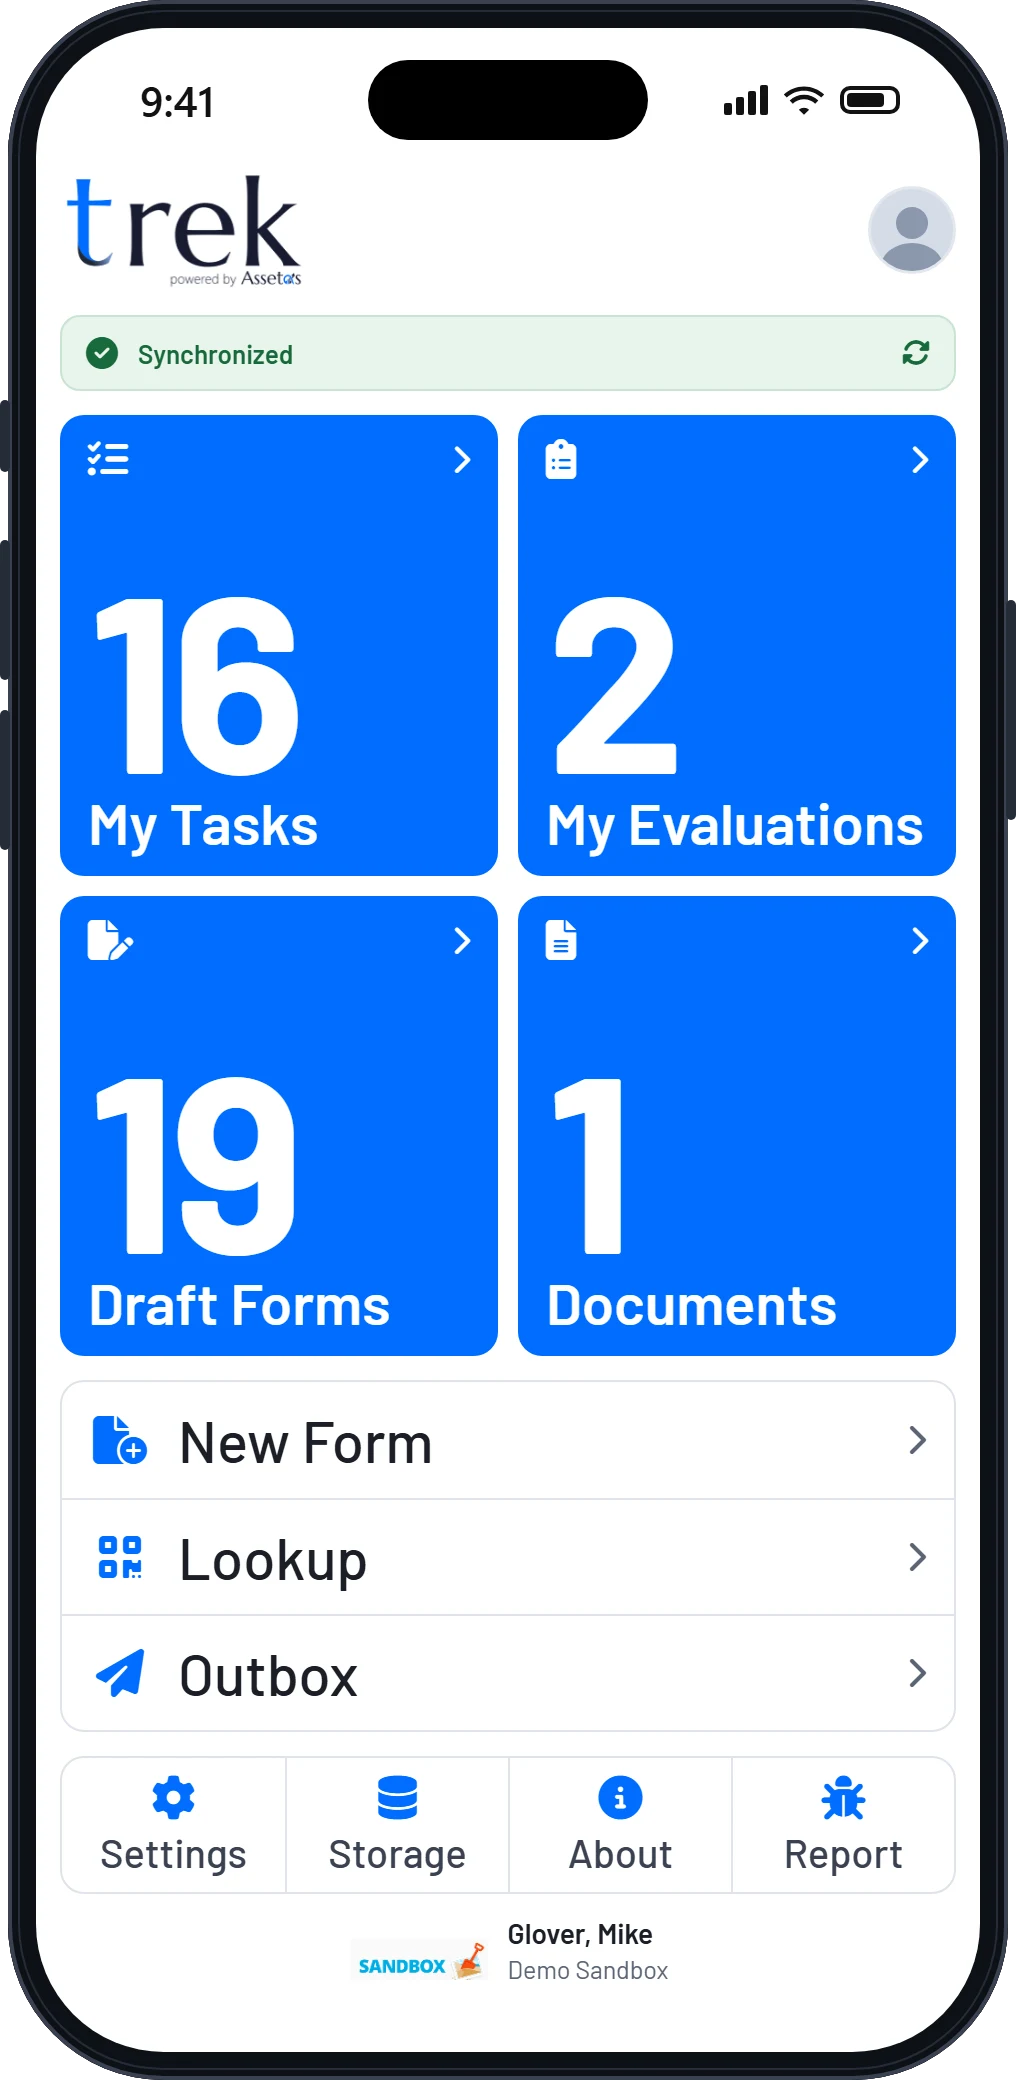
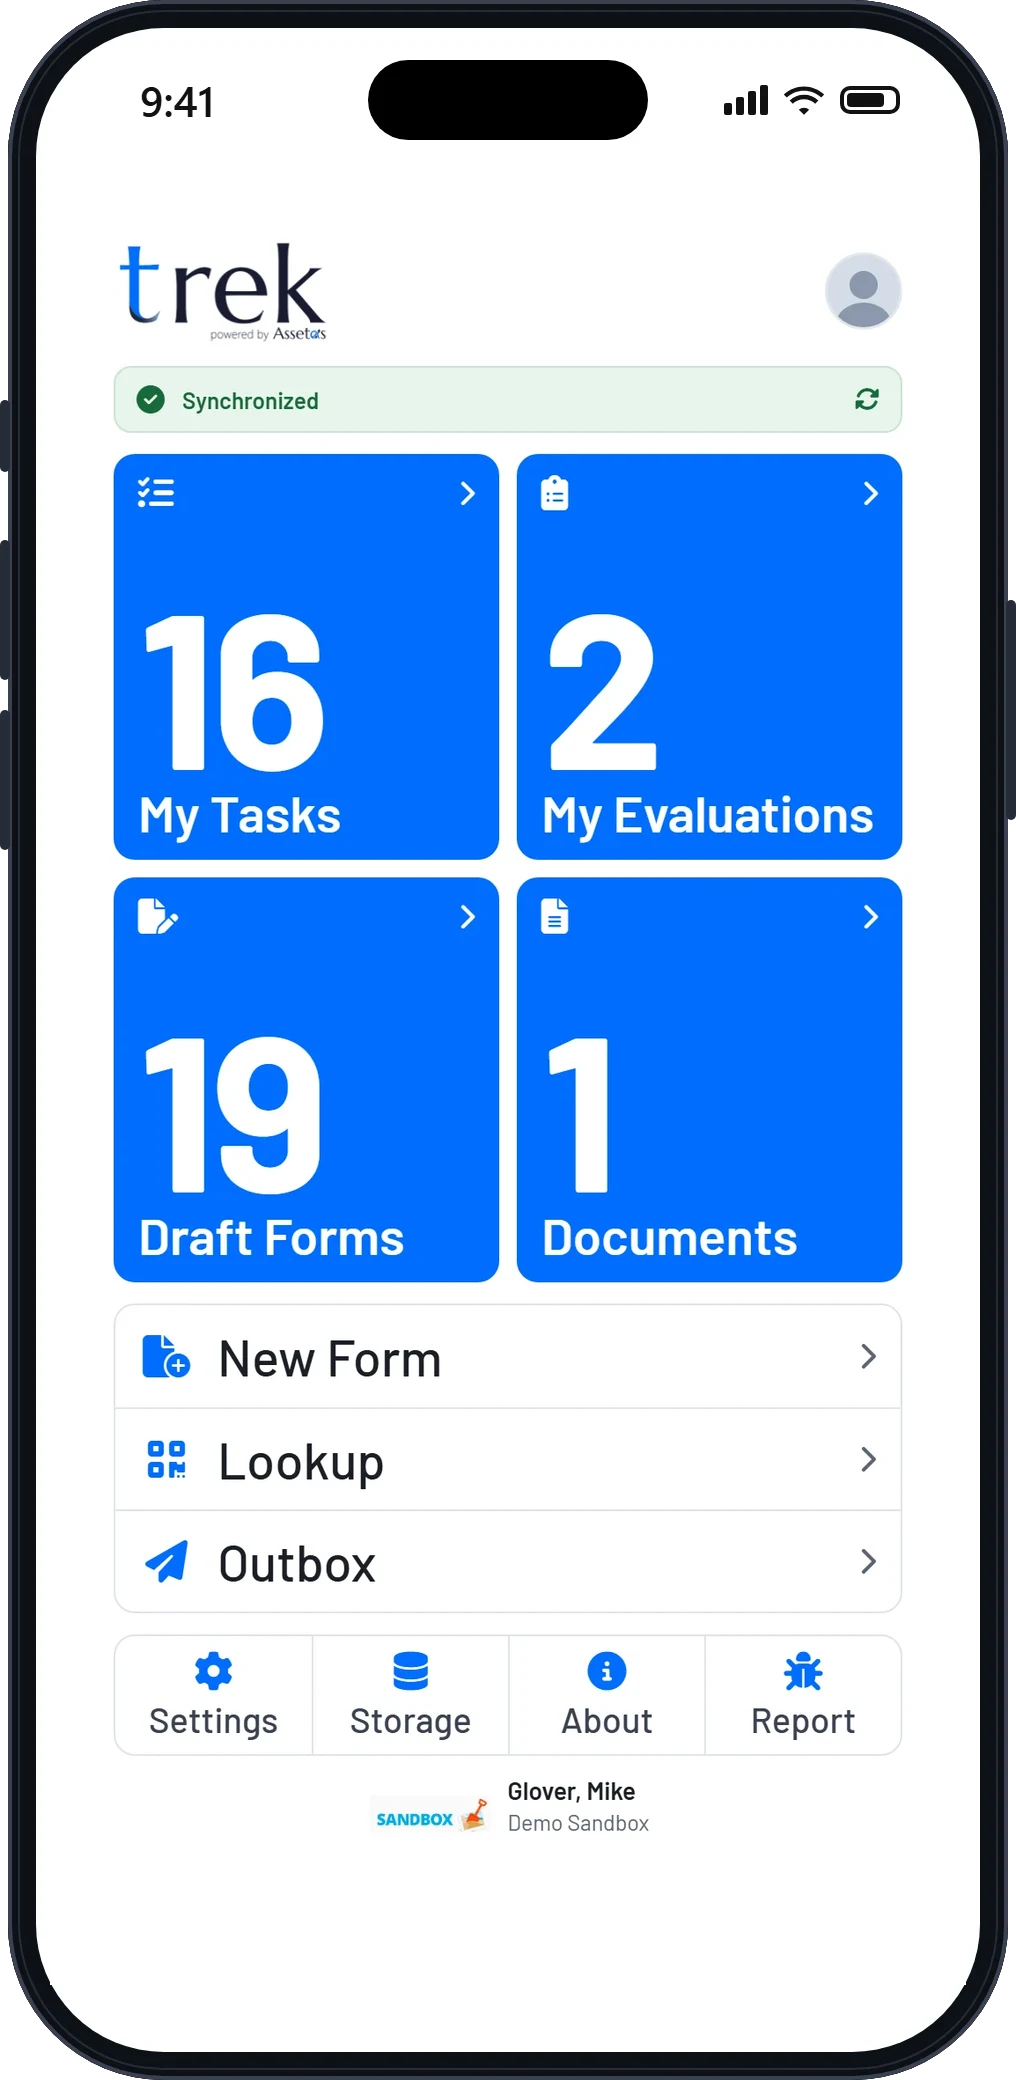
Rework the LDAR page for buyers and quiet the closing band
- Hero gets a lead plus "Book a demo" and "See the LDAR rule map".
- Sections follow the buyer's story: compliance exposure, how it works,
  the subpart W clock, proof, FAQ. The stats headline now matches its
  compliance stats; 32% is credited to Laramie Energy again.
- The hero phone is larger, and the Trek app inside it has wider margins.
- Site-wide: the closing band uses a muted steel blue (--color-brand-muted)
  and the page background is white instead of brand blue.

diff --git a/src/static/css/main.css b/src/static/css/main.css
@@ -18,7 +18,7 @@ body {
   line-height: 1.4;
   letter-spacing: -0.006em;
   color: var(--color-body);
-  background: var(--color-brand);
+  background: var(--color-bg);
   -webkit-font-smoothing: antialiased;
   -moz-osx-font-smoothing: grayscale;
   font-optical-sizing: auto;
@@ -913,7 +913,7 @@ main { background: var(--color-bg); overflow: hidden; }
 .contact-direct dd { margin: 0; }
 
 /* Closing call-to-action band: back to the blue block (navy with --dark) */
-.cta-band { position: relative; isolation: isolate; overflow: hidden; text-align: center; padding-block: var(--space-5); color: var(--color-on-fill); background: radial-gradient(50rem 24rem at 100% 100%, var(--color-brand-shade), transparent 70%), var(--color-brand); }
+.cta-band { position: relative; isolation: isolate; overflow: hidden; text-align: center; padding-block: var(--space-5); color: var(--color-on-fill); background: radial-gradient(50rem 24rem at 100% 100%, var(--color-brand-shade), transparent 70%), var(--color-brand-muted); }
 .cta-band::before {
   content: ""; position: absolute; inset: 0; z-index: -1;
   background-image: linear-gradient(var(--color-grid) 1px, transparent 1px), linear-gradient(90deg, var(--color-grid) 1px, transparent 1px), linear-gradient(var(--color-grid-fine) 1px, transparent 1px), linear-gradient(90deg, var(--color-grid-fine) 1px, transparent 1px);
@@ -1078,19 +1078,24 @@ main { background: var(--color-bg); overflow: hidden; }
   .hero-split { grid-template-columns: minmax(0, 1fr) minmax(0, 1fr); }
   .hero--poster.hero--product .hero-copy { max-width: none; }
 }
-/* Product shots: a record card (styled like the /assets hero image) with open space on its left, where
-   the Trek phone stands, 30% taller than the card and centered on it. The phone keeps its right edge a
-   quarter of the way across the card and runs past the card's left edge; on phones, where that would
-   leave the screen, the card steps in instead. Percentages of the width keep it in proportion
-   (card height 0.512 of its width, phone height 2.047 of its own). On phones only the Trek phone shows,
-   centered. The phone image has transparent corners, so its shadow is a filter that follows the frame. */
-.hero-shots { position: relative; padding: 5.1% 0; }
+/* Product shots: a record card (styled like the /assets hero image) with the Trek phone standing over its
+   left side, 38% of the width and about 1.5 times the card's height; the padding centers the card on the
+   phone. Side by side (64rem and up) the phone reaches past the card's left edge into the gap beside the
+   copy; stacked, it stays inside the screen. Percentages keep it in proportion (card height 0.512 of its
+   width, phone height 2.047 of its own). On phones only the Trek phone shows, centered. The phone image
+   has transparent corners, so its shadow is a filter that follows the frame. */
+.hero-shots { position: relative; padding: 13.3% 0; }  /* (phone 0.778 of the width - card 0.512) / 2 */
 .hero-shot-record { display: block; width: 100%; height: auto; background: var(--color-bg); border-radius: var(--radius-lg); box-shadow: var(--shadow-float); }
-.hero-shot-phone { position: absolute; left: -5%; top: 0; width: 30%; height: auto; filter: var(--shadow-cutout); }
+.hero-shot-phone { position: absolute; left: 0; top: 0; width: 38%; height: auto; filter: var(--shadow-cutout); }
+@media (min-width: 64rem) { .hero-shot-phone { left: -13%; } }  /* side by side, the phone reaches into the space beside the copy */
+@media (min-width: 40.01rem) and (max-width: 63.99rem) {  /* stacked: the card steps right so the phone leaves its labels clear */
+  .hero-shots { padding: 18% 0; }  /* (0.778 - 0.8 x 0.512) / 2 */
+  .hero-shot-record { width: 80%; margin-left: auto; }
+}
 @media (max-width: 40rem) {
   .hero-shots { padding: 0; }
   .hero-shot-record { display: none; }
-  .hero-shot-phone { position: static; display: block; width: min(60%, 15rem); margin-inline: auto; }
+  .hero-shot-phone { position: static; display: block; width: min(72%, 18rem); margin-inline: auto; }
 }
 
 /* Spacious rhythm (front matter pageClass: page--spacious; on trial on /ldar before it goes site-wide):

diff --git a/src/static/css/tokens.css b/src/static/css/tokens.css
@@ -23,6 +23,7 @@
   /* Brand blue */
   --color-brand: #006dff;         /* Electric blue: header, hero, closing band, buttons. White text 4.5:1 */
   --color-brand-deep: #0062e6;    /* bottom of the hero gradient. White text 5.4:1 */
+  --color-brand-muted: #34609f;   /* steel blue: the closing band, quieter than the hero. White text 6.3:1 */
   --color-brand-shade: rgb(2 27 78 / 0.18); /* navy shading on blue blocks (only ever darkens, so text contrast only rises) */
   --color-brand-glow: rgb(0 109 255 / 0.45); /* blue glow on navy panels */
   --color-accent: #006dff;        /* big numerals, rules and markers on white: 4.5:1, 4.1:1 on ice */

diff --git a/CLAUDE.md b/CLAUDE.md
@@ -38,7 +38,7 @@ node tools/import-media.mjs <source> <dest> [--width 1600] [--quality 80] [--aud
 - **Shell:** `layouts/base.njk` (meta, OG/Twitter, Organization JSON-LD on home, GA) + `_includes/partials/`. Menus and footer, social and legal links come from `src/_data/nav.json`.
 - **Header:** from 64rem up, Industry, Programs and Platform open a full-width panel on hover/focus in pure CSS; below that, a drawer. `nav.json` holds the panel content: `intro` per menu; `blurb` plus `icon` (in `static/img/icons/`) or `image` per child.
 - **Scripts:** `static/js/menu.js` (drawer, accordions, amber bar under the hovered item, footer animation, stat count-up, `data-play-once`) is the only page script besides GA, the 404 page's inline script, the redirect pages and `static/js/rail.js` (arrows for a `.rail` card row; only on pages with `rail: true`; no page uses it since `/ldar` moved to a bento grid) and `static/js/survey.js` (only with `survey: true`, currently `/ldar`): a diagram on `<canvas class="survey-canvas">`, inside a `.survey-panel` under the stat row, in the `--color-survey-*` tokens. One facility record branches to pads, equipment and components; pulses run out to the components, and amber dots are leak findings; when a pulse reaches one, a navy "WO" (work order) tag flashes above it. It loops, so it carries a pause button (WCAG 2.2.2), stops offscreen and in background tabs, and draws one still frame under reduced motion; brand blue only on the record node and the pulses, over a gray radial glow centered on the record; without JS the glow shows empty. `static/js/stepper.js` (only with `stepper: true`; no page uses it since `/ldar` dropped its "How it works" section) turns a `.stepper` into steps beside one blue stage: each `.stepper-title` becomes a button that opens its step and shows its `.stepper-media` (same order); without JS every step and screen shows, stacked. (`.steps` is a different component, the numbered list on the home page.) `static/js/compare.js` (only with `compare: true`, currently `/pricing`): in the compare table, check marks draw in row by row as they scroll into view, and hovering or focusing a row tints it and marks the tier where that capability starts (its cell and column head); without JS or with reduced motion every mark shows as is.
-- **Headline runs and placeholders (`/ldar`):** `.headline-run` puts a heading and its explanation in one text block (bold statement, then a softer `<span>` at the same size), in place of a separate lead. The hero's `.hero-shots` pairs a record card image, built like the `/assets` hero image, with the Trek home screen in a phone frame over its lower-left corner. `.mock` draws a product screen as a skeleton (one per `.bento` card except the first, a `.bento-card--split` with the real task calendar set straight on the gray card; no longer tagged "Placeholder"); replace each with a real screenshot before going live. The export card's `.mock-trend-bars` uses `data-play-once`: months rise one at a time in amber, then dip faint and return blue; 5 s, once (keep it at 5 s or under, or it needs a pause control). Also from the Stripe-style pass: `.feature-runs` (bold title running into its explanation, under an amber tick; `--stack` for one column), `.stat-row` (numbers split by thin rules, not boxed; `--stack` for a column), `.top-cards` (Stripe's enterprise layout in the `.bento-card` look on a six-column grid; `--wide` spans four and puts its diagram in a white `.top-card-panel` above the text, `--fill` is a solid blue card for a rule or quote; on `/ldar` the wide card holds `.leak-clock`, bars showing how long subpart W counts a found leak as open by survey cadence; bento and top cards are outlined like `.survey-panel`: white, a hairline border, and the drawing on the `--card-glow` gradient above one rule, with no nested panels or shadows; their sections stay white) and `.story` (client quote card beside its numbers: centered quote under an amber quote mark, two faint alpha marks in the navy).
+- **Headline runs and placeholders (`/ldar`):** `.headline-run` puts a heading and its explanation in one text block (bold statement, then a softer `<span>` at the same size), in place of a separate lead. The hero's `.hero-shots` pairs a record card image, built like the `/assets` hero image, with the Trek home screen in a phone frame (38% of the width) standing over its left side. `.mock` draws a product screen as a skeleton (one per `.bento` card except the first, a `.bento-card--split` with the real task calendar set straight on the gray card; no longer tagged "Placeholder"); replace each with a real screenshot before going live. The export card's `.mock-trend-bars` uses `data-play-once`: months rise one at a time in amber, then dip faint and return blue; 5 s, once (keep it at 5 s or under, or it needs a pause control). Also from the Stripe-style pass: `.feature-runs` (bold title running into its explanation, under an amber tick; `--stack` for one column), `.stat-row` (numbers split by thin rules, not boxed; `--stack` for a column), `.top-cards` (Stripe's enterprise layout in the `.bento-card` look on a six-column grid; `--wide` spans four and puts its diagram in a white `.top-card-panel` above the text, `--fill` is a solid blue card for a rule or quote; on `/ldar` the wide card holds `.leak-clock`, bars showing how long subpart W counts a found leak as open by survey cadence; bento and top cards are outlined like `.survey-panel`: white, a hairline border, and the drawing on the `--card-glow` gradient above one rule, with no nested panels or shadows; their sections stay white) and `.story` (client quote card beside its numbers: centered quote under an amber quote mark, two faint alpha marks in the navy).
 - **Stat count-up:** `menu.js` counts each `.stat` up from zero once (1.6 s) when it scrolls into view: plain figures of 10 or more with an optional `$` or `+` before and `%`, `+`, `k` or `x` after. Anything else, prices (`.price`) and `data-count="off"` stay static; the figure in the HTML is what shows without JS or with reduced motion, and screen readers get a hidden copy.
 - **Play once:** `data-play-once` on an element makes `menu.js` add `.is-armed` (first frame) and then `.is-in` when it scrolls into view; the component's CSS defines both. Used by `.fan` on `/platform/emissions` (one reading fanning out to six outputs; hovering an output lights its curve), and on `/spcc` by `.berm-check` (the largest tank drains into its containment; the line is "largest tank plus freeboard", 40 CFR 112's wording, not a 110% rule) and `.plan-stage` (a PE stamp lands on a calc sheet), and on `/defense` by `.shadow-board` (tools snap back into a tool crib board). The emissions hero's `.limit-chart` (total crosses the permit limit, a work order drops in) plays on load in CSS alone.
 - **Footer:** inline SVG in `partials/footer-art.njk` (`--color-sketch-*` tokens) that `menu.js` plays once on scroll-in; without JS or with reduced motion it shows finished. Nothing loops: motion over 5 s needs a pause control (WCAG 2.2.2).
@@ -52,7 +52,7 @@ node tools/import-media.mjs <source> <dest> [--width 1600] [--quality 80] [--aud
 ## Design rules
 
 - **Tokens:** `src/static/css/tokens.css` defines every color, font, size and spacing value, with contrast notes. `main.css` uses only tokens, with no raw colors, font sizes or spacing; add a token if the scale lacks one. `/design-system` (not in nav or sitemap) is the visual reference.
-- **Blueprint look:** brand blue (`--color-brand`, #006dff) is a surface with a drafting grid: every `.hero` and the closing `.cta-band`. Pages are white with light gray alternate sections (`--color-section-alt`, #f4f5f7) and ice panels (`--color-surface`, #edf4ff); navy (`--color-dark`, #021b4e) carries the header, dark bands and the footer. Inter is the only font. Header and footer use `img/brand/assetas-logo-dark-theme.svg` (white wordmark, brand-blue alpha); focus rings on the navy header bar are amber (`--color-focus-on-dark`).
+- **Blueprint look:** brand blue (`--color-brand`, #006dff) is a surface with a drafting grid on every `.hero`; the closing `.cta-band` uses the quieter steel blue `--color-brand-muted` (#34609f) with the same grid. The page background (`body`) is white. Pages are white with light gray alternate sections (`--color-section-alt`, #f4f5f7) and ice panels (`--color-surface`, #edf4ff); navy (`--color-dark`, #021b4e) carries the header, dark bands and the footer. Inter is the only font. Header and footer use `img/brand/assetas-logo-dark-theme.svg` (white wordmark, brand-blue alpha); focus rings on the navy header bar are amber (`--color-focus-on-dark`).
 - **Color:** small blue text is `--color-accent-text` (#0058d6). Amber (`--color-amber`, #ffc21a) is the main action on blue and the accent on navy, never text on white. Big numbers on blue: `--color-amber-light` (#ffd352).
 - **Closing band:** every page ends with `partials/cta-band.njk`, with its defaults or a sharper industry line via `cta:`.
 - **Components:** change layout per component in `main.css`, not per page, so the whole site improves together.
@@ -115,9 +115,10 @@ The preview's `robots.txt` isn't at a domain root, so crawlers ignore it; the pa
 
 **Waiting on input:**
 - `/ldar` product placeholders: real screenshots for five bento cards (follow-up chain, Delay of Repair, hierarchy roll-up, emissions, export). The drawn mocks are no longer tagged "Placeholder", so nothing on the page marks them. The capture card is done: a filled record from a Trek inspection (CC 609-33, Enardo stuck open) beside the field photo `img/ldar/tank-battery-enardo-finding.webp`; its GPS is 39.533247, -108.022802. The hero record card (`img/ldar/hero-leak-record.webp`) is a rendered mock with sample data (LF-2187, Tank battery 3, 2,418 components); swap it for a real screen when one exists.
-- `/ldar` (version 6 of the LDAR redesign): confirm the new claims before going live — the subpart W leak-duration point (40 CFR 98.233(q), Equation W-30), the "Every leak costs you three ways" stat row — 25+ (EPA, LDAR Best Practices Guide, EPA-305-D-07-001, 2007, §3.2 and Appendix A: 25 federal standards require a formal Method 21 LDAR program; the "+" counts later rules such as NSPS VVa, GGGa, OOOOa, and OOOOb, so confirm the wording; its source line reads "EPA, See LDAR rule map, 2026" and links to `/ldar-rule-map`, which Assetas compiled, not EPA), $1,500 (Waste Emissions Charge, Clean Air Act §136(c): $900/t for 2024, $1,200 for 2025, $1,500 for 2026 on, for facilities over 25,000 t CO2e a year; the One Big Beautiful Bill Act, July 4, 2025, delayed it to 2034, and the implementing rule (40 CFR 99) was repealed under the CRA and removed May 13, 2025, so nothing is collected now), (company names other than clients stay off the page) and 28x GWP (40 CFR 98 Table A-1) — and the EU Methane Regulation FAQ answer. The meta description is about 167 characters, over the 160 target.
+- `/ldar` (version 6 of the LDAR redesign): confirm the new claims before going live — the subpart W leak-duration point (40 CFR 98.233(q), Equation W-30), the "Every open leak is compliance exposure" stat row — 25+ (EPA, LDAR Best Practices Guide, EPA-305-D-07-001, 2007, §3.2 and Appendix A: 25 federal standards require a formal Method 21 LDAR program; the "+" counts later rules such as NSPS VVa, GGGa, OOOOa, and OOOOb, so confirm the wording; its source line reads "EPA, See LDAR rule map, 2026" and links to `/ldar-rule-map`, which Assetas compiled, not EPA), $1,500 (Waste Emissions Charge, Clean Air Act §136(c): $900/t for 2024, $1,200 for 2025, $1,500 for 2026 on, for facilities over 25,000 t CO2e a year; the One Big Beautiful Bill Act, July 4, 2025, delayed it to 2034, and the implementing rule (40 CFR 99) was repealed under the CRA and removed May 13, 2025, so nothing is collected now), (company names other than clients stay off the page) and 28x GWP (40 CFR 98 Table A-1) — and the EU Methane Regulation FAQ answer. The meta description is about 167 characters, over the 160 target.
 - `/ldar` export card due dates (checked November 20, 2026): GHGRP subpart W Mar 31 (40 CFR 98.3(b); RY2025 was extended to Mar 10, 2027), NSPS OOOOb annual report, chip "Startup anniversary" (the rule ties it to the first report, due 90 days after the initial compliance period, so confirm the wording; no fixed date; taken from the OOOO rule, 60.5420(b), confirm 60.5420b(b) text, which eCFR blocked), Texas emissions inventory Mar 31 (30 TAC 101.10; data in STARS, filed through STEERS Web-EI), Colorado ONGAEIR Jun 30 (Reg 7 Part B Section V). Confirm before going live.
 - `/ldar-rule-map` (as of November 19, 2026): confirm the rows with whoever owns regulatory claims before going live. Pending changes to watch: OOOOb/c reconsideration (Oct 29, 2026 proposal), OOOOc state plans (due Jan 22, 2027), BLM 3179 replacement (June 24, 2026 proposal), the withdrawn PHMSA LDAR rule (S. 2508), and the proposed subpart W suspension to 2034, which would also affect the `/ldar` copy built on subpart W. California, New Mexico and Wyoming details come from secondary sources (ITRC, Stateline, IEA); swap in the rule text. Not yet mapped: OH, WV, ND, OK, LA, and NJ/IL/DE refinery rules.
+- `/ldar` proof: the client quote ("game-changer…", credited to Laramie Energy, Colorado) is generic; get an LDAR-specific line from Laramie. Laramie is quoted but has no logo in the strip (no file in `img/logos/`). 45% and 53% lost their sources (an environmental specialist and an upstream operator); only 32% is credited (Laramie, as on `/programs`). The stats section was "Every leak costs you three ways" (process safety, lost gas, compliance); it now says compliance exposure because its three stats are all compliance. With sourced lost-gas and process-safety numbers, the three-ways framing could come back.
 - `/defense` Air Force stats: 92% is paired with check-in time and 80% with lost-tool search (the Home pairing). Confirm with whoever owns the numbers.
 - Real documents for "Download brief" (`/defense`, now → `/contact`) and "Read the full story" (`/oilandgas`, now → the Smart Forms case study PDF).
 - A destination for "Talk to our engineer" (`/ai`, `/reporting`, `/spcc`, `/telemetry`): it goes to `/contact`, like the "Book a demo" beside it.
